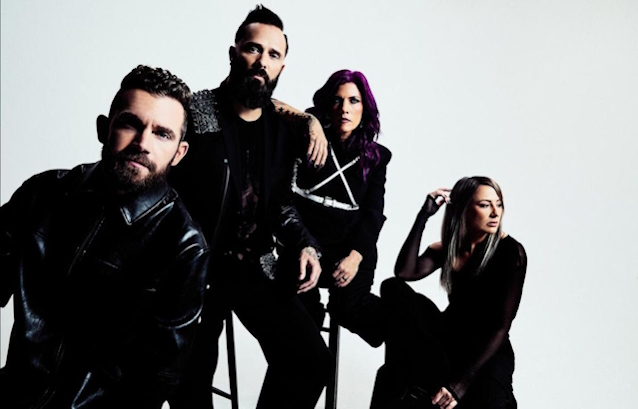
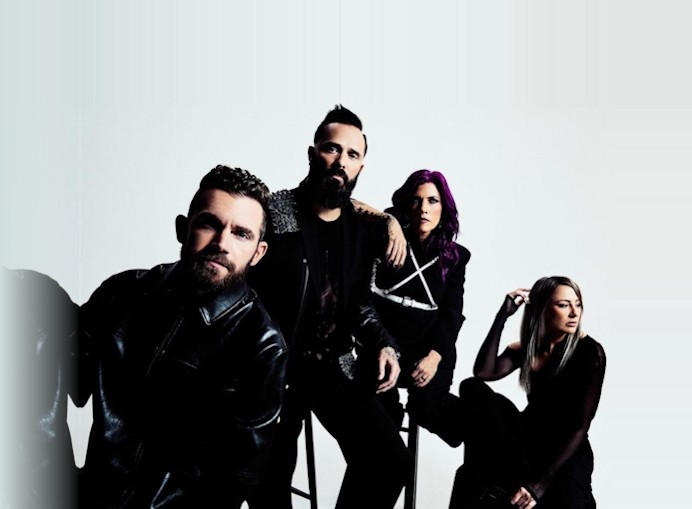
Photo: centered group, extended background (no top cut, no seams); layout centered vertically

diff --git a/index.html b/index.html
@@ -64,7 +64,7 @@
   main {
     position: relative; z-index: 1;
     flex: 1; min-height: 0;
-    display: flex; flex-direction: column; align-items: center;
+    display: flex; flex-direction: column; align-items: center; justify-content: center;
     padding: clamp(6px, 2vh, 24px) 16px clamp(10px, 2.5vh, 28px);
     text-align: center;
   }
@@ -73,6 +73,8 @@
   .band {
     position: relative;
     flex: 1 1 0; min-height: 0;
+    /* не выше самого фото (692×509) при доступной ширине — иначе над ним пустота */
+    max-height: calc(min(100vw - 32px, 692px) * 509 / 692);
     width: 100%;
     display: flex; justify-content: center; align-items: flex-end;
   }
@@ -81,8 +83,10 @@
     max-width: 100%; max-height: 100%;
     display: block;
     filter: grayscale(1) contrast(1.3) brightness(.6);
-    -webkit-mask-image: radial-gradient(50% 50% at 50% 46%, #000 50%, transparent 100%);
-            mask-image: radial-gradient(50% 50% at 50% 46%, #000 50%, transparent 100%);
+    /* овал, вписанный в кадр: к краям фото прозрачность ровно ноль, швов нет.
+       Фон у снимка надставлен сверху и по бокам, чтобы группа целиком была внутри овала */
+    -webkit-mask-image: radial-gradient(50% 50% at 50% 50%, #000 55%, transparent 100%);
+            mask-image: radial-gradient(50% 50% at 50% 50%, #000 55%, transparent 100%);
   }
 
   /* Логотип поверх нижней части фото, как на постере */
